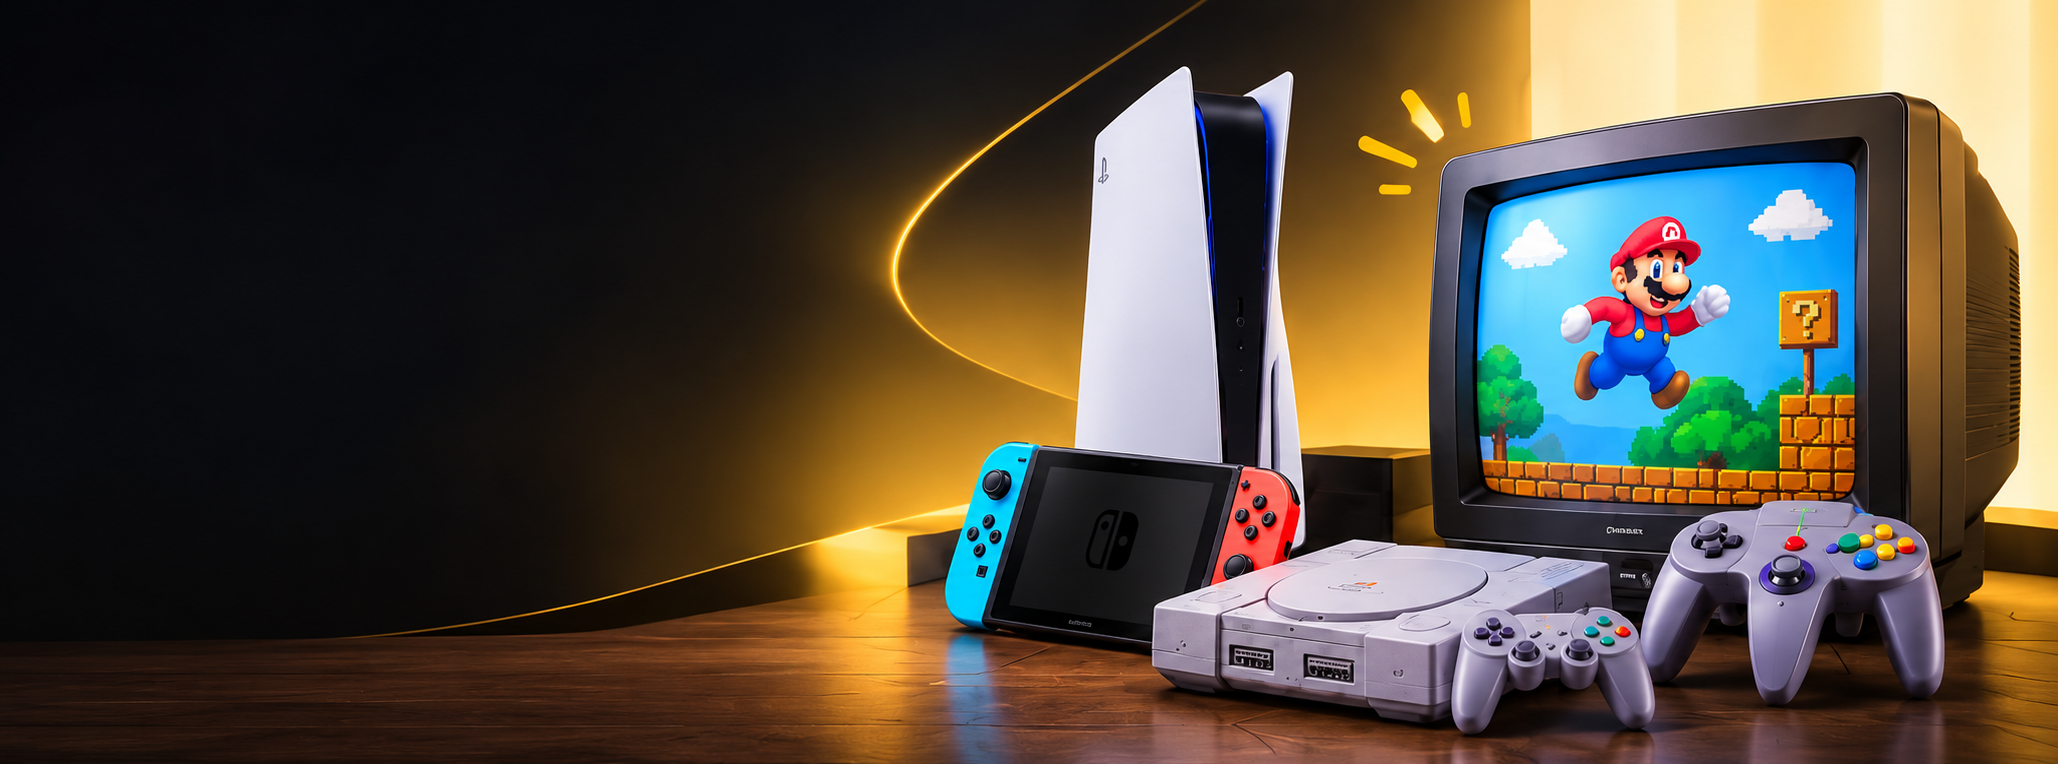
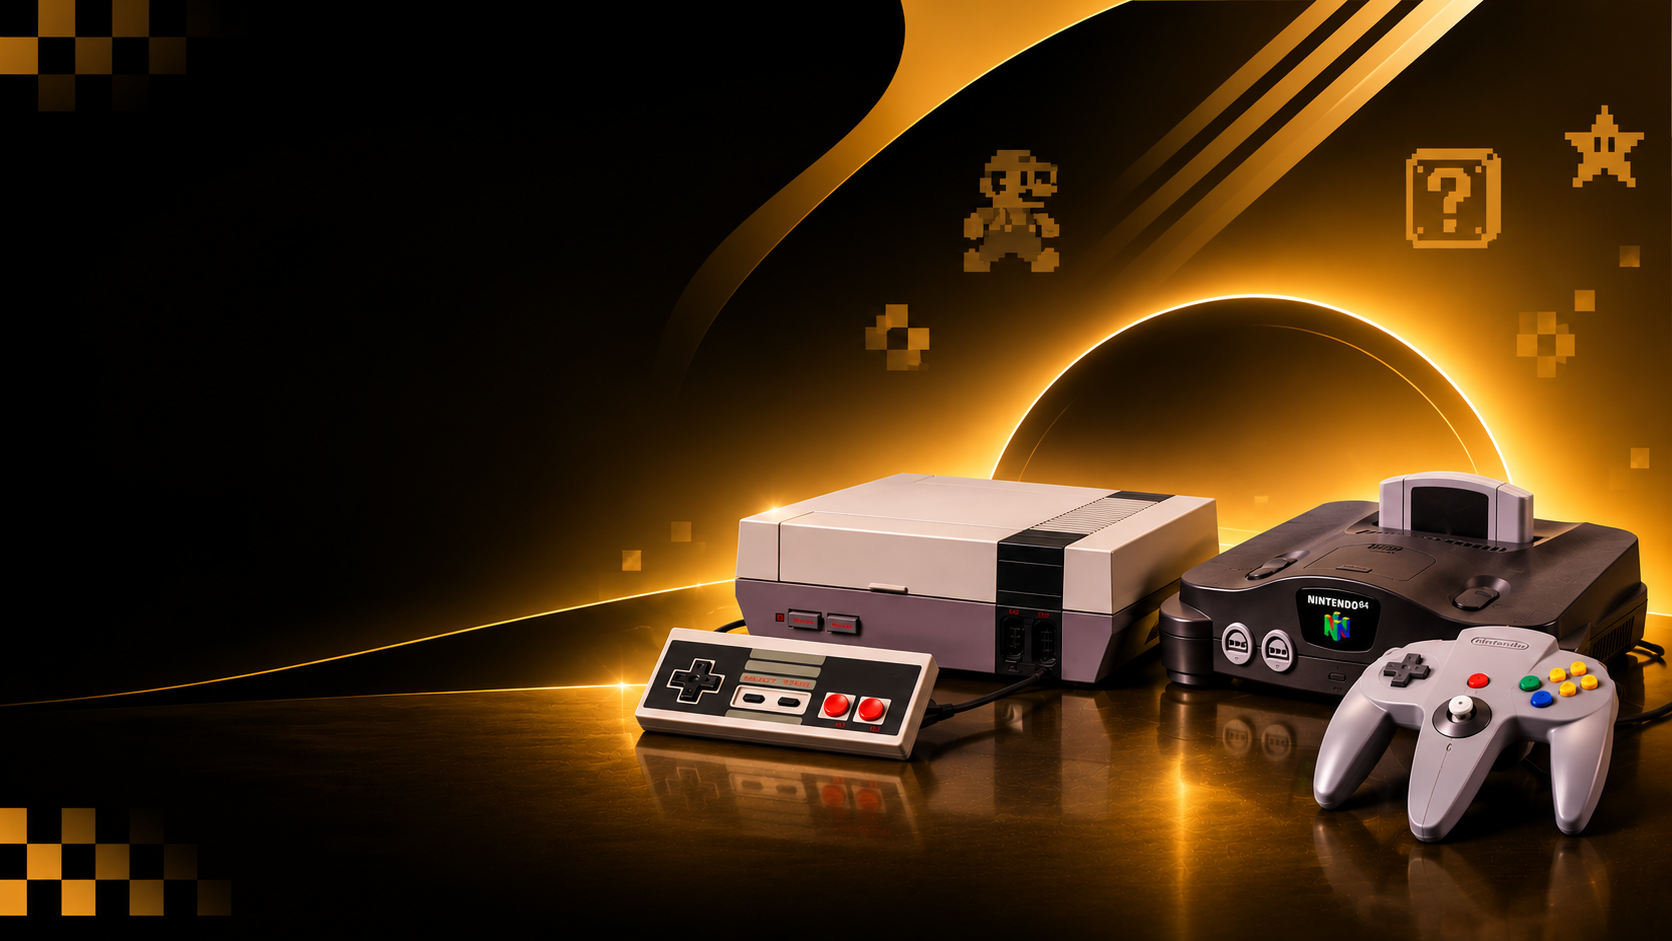
feat: redesign hero section matching reference design with upright gaming font and typewriter effect

diff --git a/client/src/pages/HomePage.jsx b/client/src/pages/HomePage.jsx
@@ -1,4 +1,4 @@
-import React, { useState } from 'react';
+import React, { useState, useEffect } from 'react';
 import {
   ArrowRight,
   ShieldCheck,
@@ -28,6 +28,105 @@ import {
   UserRound
 } from 'lucide-react';
 import heroBg from '../assets/hero-bg.png';
+
+// Typewriter Heading Component matching user's exact design and typography
+const HERO_PHRASES = [
+  {
+    line1White: 'Consolas ',
+    line1Gold: 'Clásicas',
+    line2White: 'para Verdaderos ',
+    line2Gold: 'Fanáticos'
+  },
+  {
+    line1White: 'Videojuegos ',
+    line1Gold: 'Retro',
+    line2White: 'para Verdaderos ',
+    line2Gold: 'Fanáticos'
+  },
+  {
+    line1White: 'TVs Analógicas ',
+    line1Gold: 'CRT',
+    line2White: 'para Coleccionistas ',
+    line2Gold: 'Reales'
+  }
+];
+
+function HeroTypewriterHeading() {
+  const [phraseIndex, setPhraseIndex] = useState(0);
+  const [charCount, setCharCount] = useState(0);
+  const [isDeleting, setIsDeleting] = useState(false);
+
+  const currentPhrase = HERO_PHRASES[phraseIndex];
+  const line1Full = currentPhrase.line1White + currentPhrase.line1Gold;
+  const line2Full = currentPhrase.line2White + currentPhrase.line2Gold;
+  const totalChars = line1Full.length + line2Full.length;
+
+  useEffect(() => {
+    let timeout;
+    if (!isDeleting && charCount < totalChars) {
+      // Typing forward
+      timeout = setTimeout(() => {
+        setCharCount(prev => prev + 1);
+      }, 55);
+    } else if (!isDeleting && charCount === totalChars) {
+      // Completed full heading: pause 5.5s so users read comfortably
+      timeout = setTimeout(() => {
+        setIsDeleting(true);
+      }, 5500);
+    } else if (isDeleting && charCount > 0) {
+      // Deleting backward
+      timeout = setTimeout(() => {
+        setCharCount(prev => prev - 1);
+      }, 25);
+    } else if (isDeleting && charCount === 0) {
+      // Pause then switch to next phrase
+      timeout = setTimeout(() => {
+        setIsDeleting(false);
+        setPhraseIndex(prev => (prev + 1) % HERO_PHRASES.length);
+      }, 450);
+    }
+    return () => clearTimeout(timeout);
+  }, [charCount, isDeleting, totalChars]);
+
+  // Slices for Line 1
+  const line1TypedLen = Math.min(charCount, line1Full.length);
+  const line1Typed = line1Full.slice(0, line1TypedLen);
+  const line1White = line1Typed.slice(0, currentPhrase.line1White.length);
+  const line1Gold = line1Typed.length > currentPhrase.line1White.length
+    ? line1Typed.slice(currentPhrase.line1White.length)
+    : '';
+
+  // Slices for Line 2
+  const line2TypedLen = Math.max(0, charCount - line1Full.length);
+  const line2Typed = line2Full.slice(0, line2TypedLen);
+  const line2White = line2Typed.slice(0, currentPhrase.line2White.length);
+  const line2Gold = line2Typed.length > currentPhrase.line2White.length
+    ? line2Typed.slice(currentPhrase.line2White.length)
+    : '';
+
+  const isLine1Active = charCount <= line1Full.length;
+
+  return (
+    <h1 className="font-hero-gaming not-italic text-3xl sm:text-5xl lg:text-[56px] font-extrabold tracking-tight text-white leading-[1.12] sm:leading-[1.14] select-none min-h-[92px] sm:min-h-[132px]">
+      {/* Line 1 */}
+      <span className="block not-italic">
+        <span className="text-white not-italic">{line1White}</span>
+        <span className="text-[#F5A623] not-italic">{line1Gold}</span>
+        {isLine1Active && (
+          <span className="inline-block w-1 sm:w-1.5 h-[0.82em] ml-1 bg-[#F5A623] align-baseline animate-pulse shadow-[0_0_8px_#F5A623]" />
+        )}
+      </span>
+      {/* Line 2 */}
+      <span className="block mt-1 sm:mt-1.5 not-italic">
+        <span className="text-white not-italic">{line2White}</span>
+        <span className="text-[#F5A623] not-italic">{line2Gold}</span>
+        {!isLine1Active && (
+          <span className="inline-block w-1 sm:w-1.5 h-[0.82em] ml-1 bg-[#F5A623] align-baseline animate-pulse shadow-[0_0_8px_#F5A623]" />
+        )}
+      </span>
+    </h1>
+  );
+}
 
 // Metallic Gold Wave Ribbons
 function GoldRibbonDividerDarkToLight() {
@@ -296,94 +395,98 @@ export default function HomePage({ setView, onSelectCategory }) {
     <div className="min-h-screen bg-[#FAF9F6] text-neutral-900 selection:bg-[#F5A623] selection:text-black">
 
       {/* ======================================================== */}
-      {/* 1. HERO SECTION (100% Spanish, Pure Black, Hero Background) */}
+      {/* 1. HERO SECTION (Matching User Design, Exact Typography, Typewriter) */}
       {/* ======================================================== */}
-      <section className="relative overflow-hidden bg-black text-white min-h-[580px] lg:min-h-[615px] flex items-center">
+      <section className="relative overflow-hidden bg-black text-white min-h-[580px] lg:min-h-[640px] flex items-center">
 
-        {/* Background Image Layer from Asset */}
+        {/* Background Image Layer from Asset (NES, N64, Gold Glow & Reflections) */}
         <div
-          className="absolute inset-0 z-0 bg-cover bg-center bg-no-repeat transition-transform duration-1000 scale-100 hover:scale-[1.02]"
+          className="absolute inset-0 z-0 bg-cover bg-right lg:bg-center bg-no-repeat pointer-events-none"
           style={{ backgroundImage: `url(${heroBg})` }}
         />
 
-        {/* Sophisticated Dual Gradient Overlay for legibility & contrast */}
-        <div className="absolute inset-0 z-0 bg-gradient-to-r from-black via-black/85 to-black/35 lg:via-black/75" />
-        <div className="absolute inset-0 z-0 bg-gradient-to-t from-black via-transparent to-black/40" />
+        {/* Subtle gradient for mobile/tablet to ensure text contrast while keeping artwork vivid */}
+        <div className="absolute inset-0 z-0 bg-gradient-to-r from-black/90 via-black/55 to-transparent lg:from-black/40 lg:via-transparent lg:to-transparent pointer-events-none" />
 
-        {/* Subtle breathing ambient glow */}
-        <div className="absolute top-1/3 left-1/4 -translate-x-1/2 w-[550px] h-[350px] bg-[#F5A623]/15 blur-[140px] rounded-full pointer-events-none animate-pulse-glow" />
+        {/* Subtle checkered flag motif at bottom-left */}
+        <div className="absolute bottom-0 left-0 w-48 sm:w-64 h-20 sm:h-24 pointer-events-none z-10 opacity-30 [mask-image:linear-gradient(to_top_right,black_15%,transparent_85%)]">
+          <div
+            className="w-full h-full"
+            style={{
+              backgroundImage: `
+                linear-gradient(45deg, #444 25%, transparent 25%),
+                linear-gradient(-45deg, #444 25%, transparent 25%),
+                linear-gradient(45deg, transparent 75%, #444 75%),
+                linear-gradient(-45deg, transparent 75%, #444 75%)
+              `,
+              backgroundSize: '16px 16px',
+              backgroundPosition: '0 0, 0 8px, 8px -8px, -8px 0px'
+            }}
+          />
+        </div>
 
-        <div className="max-w-7xl mx-auto px-4 sm:px-6 lg:px-8 py-20 lg:py-24 relative z-10 w-full">
-          <div className="max-w-2xl space-y-7">
+        <div className="max-w-7xl mx-auto px-4 sm:px-6 lg:px-8 py-16 lg:py-24 relative z-10 w-full">
+          <div className="max-w-xl lg:max-w-2xl space-y-6 sm:space-y-7">
 
-            {/* Title specifying analog TVs up to 21 inches */}
-            <div className="space-y-3 animate-fade-in-up" style={{ animationDelay: '100ms' }}>
-              <h1 className="text-3xl sm:text-4xl lg:text-[46px] font-black tracking-tight text-white leading-[1.28] sm:leading-[1.25] lg:leading-[1.22] font-display">
-                Vende tus consolas, videojuegos <br className="hidden sm:inline" />
-                y <span className="text-[#F5A623]">tvs analógicas de 13 hasta 21 pulgadas</span>
-              </h1>
+            {/* Kicker flanked by horizontal accent lines */}
+            <div className="flex items-center gap-3 animate-fade-in">
+              <div className="w-8 sm:w-14 h-[1px] bg-gradient-to-r from-transparent to-[#F5A623]" />
+              <span className="text-[10px] sm:text-xs font-bold tracking-[0.22em] uppercase text-neutral-300">
+                Revive la magia del juego
+              </span>
+              <div className="w-8 sm:w-14 h-[1px] bg-gradient-to-l from-transparent to-[#F5A623]" />
             </div>
 
-            {/* Subtitle with vertical gold bar */}
-            <div
-              className="flex items-center gap-3 animate-fade-in-up pt-1"
-              style={{ animationDelay: '200ms' }}
-            >
-              <div className="w-1.5 h-7 bg-[#F5A623] rounded-full shrink-0" />
-              <p className="text-base sm:text-lg text-neutral-200 font-semibold leading-relaxed">
-                Rápido, fácil y seguro.
-              </p>
+            {/* Heading with Typewriter effect & exact gaming font (not italic) */}
+            <HeroTypewriterHeading />
+
+            {/* Subtitle paragraph */}
+            <p className="text-sm sm:text-base text-neutral-300 leading-relaxed font-normal max-w-lg">
+              Revive los mejores momentos con consolas icónicas como Nintendo NES y Nintendo 64.
+            </p>
+
+            {/* Five diagonal gold hazard/speed slashes ///// */}
+            <div className="flex items-center gap-1.5 pt-0.5">
+              {[0, 1, 2, 3, 4].map((i) => (
+                <span
+                  key={i}
+                  className="inline-block w-2.5 h-3.5 bg-[#F5A623] -skew-x-[24deg] rounded-[1px] shadow-sm shadow-[#F5A623]/30"
+                />
+              ))}
             </div>
 
-            {/* CTAs: WhatsApp button + Send message button */}
-            <div
-              className="pt-2 flex flex-col sm:flex-row items-stretch sm:items-center gap-4 animate-fade-in-up"
-              style={{ animationDelay: '300ms' }}
-            >
-              {/* Button 1: Contáctanos por WhatsApp */}
-              <a
-                href="https://wa.me/525512345678?text=Hola%20LionGamesAndTvs,%20quiero%20vender%20mis%20consolas%20y%20videojuegos"
-                target="_blank"
-                rel="noopener noreferrer"
-                className="btn-shimmer px-7 py-3.5 rounded-full font-bold text-xs tracking-wide bg-[#F5A623] hover:bg-[#E59819] text-black shadow-xl shadow-[#F5A623]/25 hover:scale-[1.02] active:scale-[0.98] transition-all flex items-center justify-center gap-2.5 group"
-              >
-                <MessageCircle className="w-4 h-4 fill-current text-black" />
-                <span>Contáctanos por WhatsApp</span>
-              </a>
-
-              {/* Button 2: Envíanos un mensaje */}
+            {/* CTAs: Explora Nuestra Colección + Conoce Más */}
+            <div className="pt-2 flex flex-wrap items-center gap-3.5 sm:gap-4">
+              {/* Button 1: Solid gold pill button */}
               <button
-                onClick={() => setView('custom-quote')}
-                className="px-7 py-3.5 rounded-full font-bold text-xs tracking-wide bg-black/80 hover:bg-neutral-900 text-white border border-neutral-700 hover:border-[#F5A623] transition-all flex items-center justify-center gap-2.5 group"
+                type="button"
+                onClick={() => {
+                  if (onSelectCategory) onSelectCategory('all');
+                  setView('catalogue');
+                }}
+                className="btn-shimmer px-6 sm:px-7 py-3 sm:py-3.5 rounded-full font-bold text-xs sm:text-sm tracking-wide bg-[#F5A623] hover:bg-[#E59819] text-black shadow-lg shadow-[#F5A623]/30 hover:scale-[1.03] active:scale-[0.98] transition-all flex items-center gap-2 group cursor-pointer"
               >
-                <Mail className="w-4 h-4 text-[#F5A623]" />
-                <span>Envíanos un mensaje</span>
+                <Gamepad2 className="w-4 h-4 text-black stroke-[2.2]" />
+                <span>Explora Nuestra Colección</span>
+                <ArrowRight className="w-4 h-4 text-black stroke-[2.5] group-hover:translate-x-1 transition-transform" />
               </button>
-            </div>
 
-            {/* Value Prop Micro Pills */}
-            <div
-              className="pt-4 flex flex-wrap items-center gap-6 text-xs text-neutral-300 font-medium animate-fade-in-up"
-              style={{ animationDelay: '400ms' }}
-            >
-              <div className="flex items-center gap-2 group cursor-default">
-                <div className="w-4 h-4 rounded-full bg-[#F5A623]/20 flex items-center justify-center">
-                  <ShieldCheck className="w-3.5 h-3.5 text-[#F5A623]" />
-                </div>
-                <span className="group-hover:text-white transition-colors">Cotización sin compromiso</span>
-              </div>
-              <div className="flex items-center gap-2 group cursor-default">
-                <div className="w-4 h-4 rounded-full bg-[#F5A623]/20 flex items-center justify-center">
-                  <Zap className="w-3.5 h-3.5 text-[#F5A623]" />
-                </div>
-                <span className="group-hover:text-white transition-colors">Pago rápido garantizado</span>
-              </div>
-              <div className="flex items-center gap-2 group cursor-default">
-                <div className="w-4 h-4 rounded-full bg-[#F5A623]/20 flex items-center justify-center">
-                  <HeartHandshake className="w-3.5 h-3.5 text-[#F5A623]" />
-                </div>
-                <span className="group-hover:text-white transition-colors">Envíos asegurados en todo México</span>
-              </div>
+              {/* Button 2: Dark outline pill button with gold border */}
+              <button
+                type="button"
+                onClick={() => {
+                  const target = document.getElementById('que-quieres-vender');
+                  if (target) {
+                    target.scrollIntoView({ behavior: 'smooth' });
+                  } else {
+                    setView('como-funciona');
+                  }
+                }}
+                className="px-6 sm:px-7 py-3 sm:py-3.5 rounded-full font-bold text-xs sm:text-sm tracking-wide bg-black/70 hover:bg-neutral-900 text-white border border-[#F5A623]/80 hover:border-[#F5A623] hover:text-[#F5A623] shadow-md transition-all flex items-center gap-2 group cursor-pointer"
+              >
+                <span className="text-[#F5A623] text-sm leading-none font-bold">▷</span>
+                <span>Conoce Más</span>
+              </button>
             </div>
 
           </div>
@@ -393,7 +496,7 @@ export default function HomePage({ setView, onSelectCategory }) {
       {/* ================================================================ */}
       {/* 2. ¿QUÉ QUIERES VENDER? — Modern light-theme showcase cards     */}
       {/* ================================================================ */}
-      <section className="py-24 bg-[#FAF9F6]">
+      <section id="que-quieres-vender" className="py-24 bg-[#FAF9F6]">
         <div className="max-w-7xl mx-auto px-4 sm:px-6 lg:px-8">
 
           {/* ── Section Header ── */}

diff --git a/client/index.html b/client/index.html
@@ -7,10 +7,10 @@
     <title>Lion Games & TVs | Vende Tus Videojuegos, Consolas y CRT Retro en México</title>
     <meta name="description" content="Plataforma de compra directa C2B en México para consolas, videojuegos, accesorios y televisores CRT retro. Cotización rápida y transparente en MXN." />
     
-    <!-- Bespoke Google Fonts: Plus Jakarta Sans & Outfit -->
+    <!-- Bespoke Google Fonts: Chakra Petch, Oxanium, Outfit & Plus Jakarta Sans -->
     <link rel="preconnect" href="https://fonts.googleapis.com">
     <link rel="preconnect" href="https://fonts.gstatic.com" crossorigin>
-    <link href="https://fonts.googleapis.com/css2?family=Outfit:wght@400;500;600;700;800;900&family=Plus+Jakarta+Sans:ital,wght@0,300;0,400;0,500;0,600;0,700;0,800;1,400&display=swap" rel="stylesheet">
+    <link href="https://fonts.googleapis.com/css2?family=Chakra+Petch:wght@400;500;600;700;800&family=Oxanium:wght@400;500;600;700;800&family=Outfit:wght@400;500;600;700;800;900&family=Plus+Jakarta+Sans:ital,wght@0,300;0,400;0,500;0,600;0,700;0,800;1,400&display=swap" rel="stylesheet">
   </head>
   <body class="bg-[#FAF9F6] text-neutral-900 font-sans antialiased selection:bg-amber-400 selection:text-black">
     <div id="root"></div>

diff --git a/client/src/index.css b/client/src/index.css
@@ -12,6 +12,13 @@
   }
 }
 
+/* Hero Gaming Font (strictly upright, not italic) */
+.font-hero-gaming {
+  font-family: 'Chakra Petch', 'Oxanium', 'Outfit', sans-serif;
+  font-style: normal !important;
+  font-feature-settings: "cv02", "cv03", "cv04", "cv11";
+}
+
 /* Custom premium scrollbar */
 ::-webkit-scrollbar {
   width: 7px;

diff --git a/client/tailwind.config.js b/client/tailwind.config.js
@@ -9,6 +9,7 @@ export default {
       fontFamily: {
         sans: ['"Plus Jakarta Sans"', 'Inter', 'system-ui', '-apple-system', 'sans-serif'],
         display: ['Outfit', '"Plus Jakarta Sans"', 'sans-serif'],
+        gaming: ['"Chakra Petch"', '"Oxanium"', 'Outfit', 'sans-serif'],
       },
       colors: {
         lion: {
